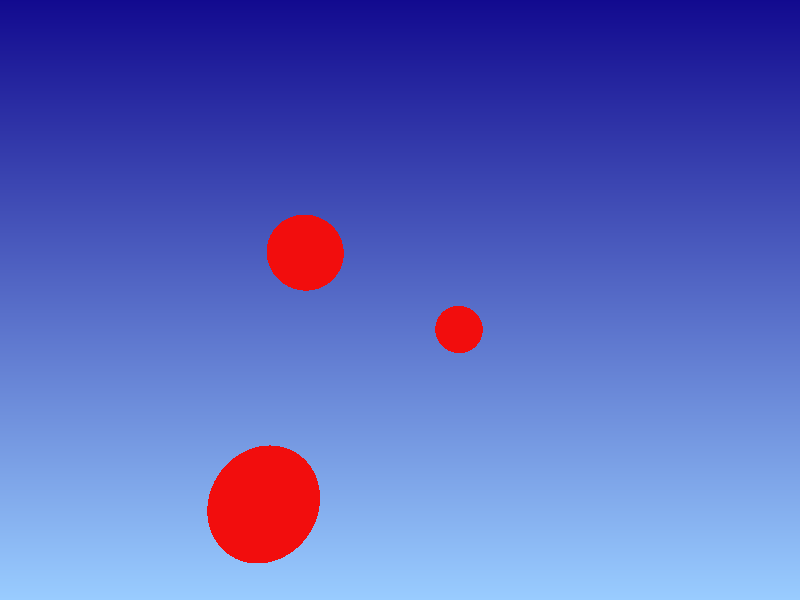
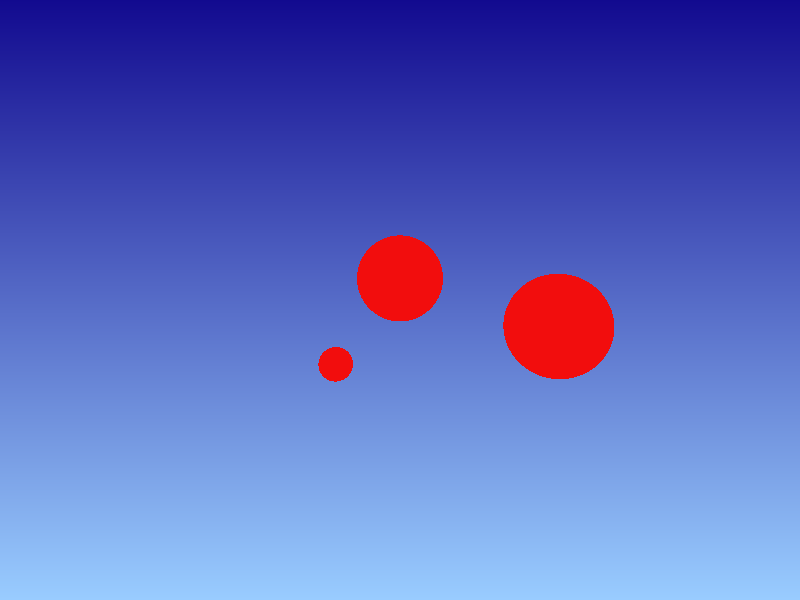
Implemented Spotlights and fixed add small script to run all scene files

Changed region(s): [[0.3125, 0.36, 0.7812, 0.63], [0.25, 0.72, 0.4062, 0.96], [0.375, 0.57, 0.4375, 0.66]]

diff --git a/src/lights/spot_light.cpp b/src/lights/spot_light.cpp
@@ -1,0 +1,72 @@
+#include "lights/spot_light.hpp"
+#include "core/color.hpp"
+#include "core/param_set.hpp"
+#include "core/primitive.hpp"
+#include "core/ray.hpp"
+#include "core/surfel.hpp"
+#include "math/vector_3.hpp"
+#include <cmath>
+#include <iostream>
+#include <limits>
+#include <memory>
+
+SpotLight::SpotLight(const ParamSet &ps) {
+    this->from = ps.retrieve<Point3>("from");
+    this->to = ps.retrieve<Point3>("to");
+    this->scale = ps.retrieve<Color>("scale");
+    this->intensity = this->scale * (ps.retrieve<Color>("intensity"));
+    this->lt = light_type::SPOT;
+    this->falloff = ps.retrieve<double>("falloff");
+    this->cutoff = ps.retrieve<double>("cutoff");
+}
+
+inline double deg_to_rad(double deg) {
+  return (M_PI * deg) / 180.;
+}
+Color SpotLight::sample_li(const Surfel &s, [[maybe_unused]] Vector3 &out,
+                            const std::vector<std::unique_ptr<Primitive>> &obj,
+                            const Ray &r) {
+  const double epsilon = 0.000001;
+  Vector3 dir_light = unit_vector(this->from - s.point);
+  Vector3 unit_normal = unit_vector(s.norm);
+  Vector3 light_from_to = unit_vector(this->from - this->to);
+  Ray light_ray(s.point + dir_light * epsilon, dir_light);
+  //check the angle of the light ray and the cutoff
+  //dot(dir_light, light_from_to)
+  double obj_light_cos = dot(light_from_to, dir_light);
+  double cutoff_cos = cos(deg_to_rad(cutoff));
+  double falloff_cos = cos(deg_to_rad(falloff));
+  if(obj_light_cos < cutoff_cos){
+    return {0., 0., 0.};
+  }
+  double hit_t = (s.point - this->from).length();
+  //checking for obstruction
+  for (auto &o : obj) {
+    if (o.get() == s.primitive) {
+      // std::cout << "same object\n";
+      continue;
+    }
+    auto surface = o->intersect(light_ray);
+    if (surface && surface->t < hit_t) {
+      return {0., 0., 0.}; // black
+    }
+  }
+  double n_l_cos = std::max(0., dot(dir_light, unit_normal));
+  Color kd = s.primitive->get_material()->get_diffuse();
+  Vector3 unit_in_direction = unit_vector(-r.direcao);
+  Vector3 h = (unit_in_direction + dir_light) /
+  (unit_in_direction + dir_light).length();
+  Color ks = s.primitive->get_material()->get_specular();
+  double n_h_cos = std::max(0., dot(unit_normal, h));
+  double glossiness = s.primitive->get_material()->get_glossiness();
+  Color intensity_altered = intensity; 
+  
+  if(obj_light_cos < falloff_cos){
+    intensity_altered = intensity*((obj_light_cos-cutoff_cos)/(falloff_cos-cutoff_cos));
+  }
+  Color L = kd * intensity_altered * n_l_cos;
+  if (glossiness > 0) {
+    L = L + ks * intensity_altered * pow(n_h_cos, glossiness);
+  }
+  return L;
+}

diff --git a/src/core/object_factory.cpp b/src/core/object_factory.cpp
@@ -409,11 +409,17 @@ ParamSet ObjectFactory::parseLight(tinyxml2::XMLElement *tag) {
   std::string type(type_raw);
   Color intensity = Color::parseColorString(tag->Attribute("I")),
         scale = Color::parseColorString(tag->Attribute("scale"));
-  if (type == "point" || type == "directional") {
+  if (type == "point" || type == "directional" || type == "spot") {
     auto from = parseSingleString(tag->Attribute("from"));
-    if (type == "directional") {
+    if (type == "directional" || type == "spot") {
       auto to = parseSingleString(tag->Attribute("to"));
       ps.insert("to", to);
+      if(type == "spot"){
+        auto cutoff = std::stod(tag->Attribute("cutoff"));
+        auto falloff = std::stod(tag->Attribute("falloff"));
+        ps.insert("cutoff", cutoff);
+        ps.insert("falloff", falloff);
+      }
     }
     ps.insert("from", from);
   }

diff --git a/src/core/light.cpp b/src/core/light.cpp
@@ -3,6 +3,7 @@
 #include "core/scene.hpp"
 #include "lights/ambient_light.hpp"
 #include "lights/direct_light.hpp"
+#include "lights/spot_light.hpp"
 #include "lights/point_light.hpp"
 #include "math/vector_3.hpp"
 #include <memory>
@@ -20,7 +21,11 @@ void Light::make_light(const ParamSet &ps, Scene &s) {
   } else if (type == "ambient") {
     auto ptr = std::make_unique<AmbientLight>(ps);
     s.lights.push_back(std::move(ptr));
-  } else {
+  } else if(type == "spot"){
+    auto ptr = std::make_unique<SpotLight>(ps);
+    s.lights.push_back(std::move(ptr));
+  }
+  else {
     std::cout << "ignoring temporary unsuported light type\n";
   }
 }

diff --git a/src/lights/spot_light.hpp b/src/lights/spot_light.hpp
@@ -1,0 +1,18 @@
+#pragma once
+#include "core/light.hpp"
+#include "core/param_set.hpp"
+#include "math/vector_3.hpp"
+
+class SpotLight : public Light {
+public:
+  SpotLight(const ParamSet &ps);
+  Color sample_li(const Surfel &s, Vector3 &dir,
+                  const std::vector<std::unique_ptr<Primitive>> &obj,
+                  const Ray &r /*, VisibilityTester v*/) override;
+
+private:
+  Point3 to;
+  Point3 from;
+  double cutoff;
+  double falloff;
+};

diff --git a/src/shape/triangle.cpp b/src/shape/triangle.cpp
@@ -59,7 +59,7 @@ std::optional<Surfel> Triangle::intersect(const Ray &r) const {
     interp_normal = unit_vector(interp_normal);
 
     // Opcional, mas útil: Interpola as coordenadas UV da mesma forma
-    Point2 interp_uv = alpha * uvA() + beta * uvB() + gamma * uvC();
+    [[maybe_unused]]Point2 interp_uv = alpha * uvA() + beta * uvB() + gamma * uvC();
 
     // Recalcula o vetor de saída (bounce/reflexão) usando a nova normal
     // interpolada

diff --git a/src/core/generic_object.hpp b/src/core/generic_object.hpp
@@ -11,5 +11,5 @@ template <typename T> class ValueType : public GenericObject {
 public:
   T value;
 
-  ValueType<T>(T val) : value(val) {}
+  ValueType(T val) : value(val) {}
 };

diff --git a/src/core/light.hpp b/src/core/light.hpp
@@ -21,6 +21,7 @@ protected:
     POINT,
     AMBIENT,
     DIRECTIONAL,
+    SPOT,
   };
   light_type lt;
   Color intensity;
